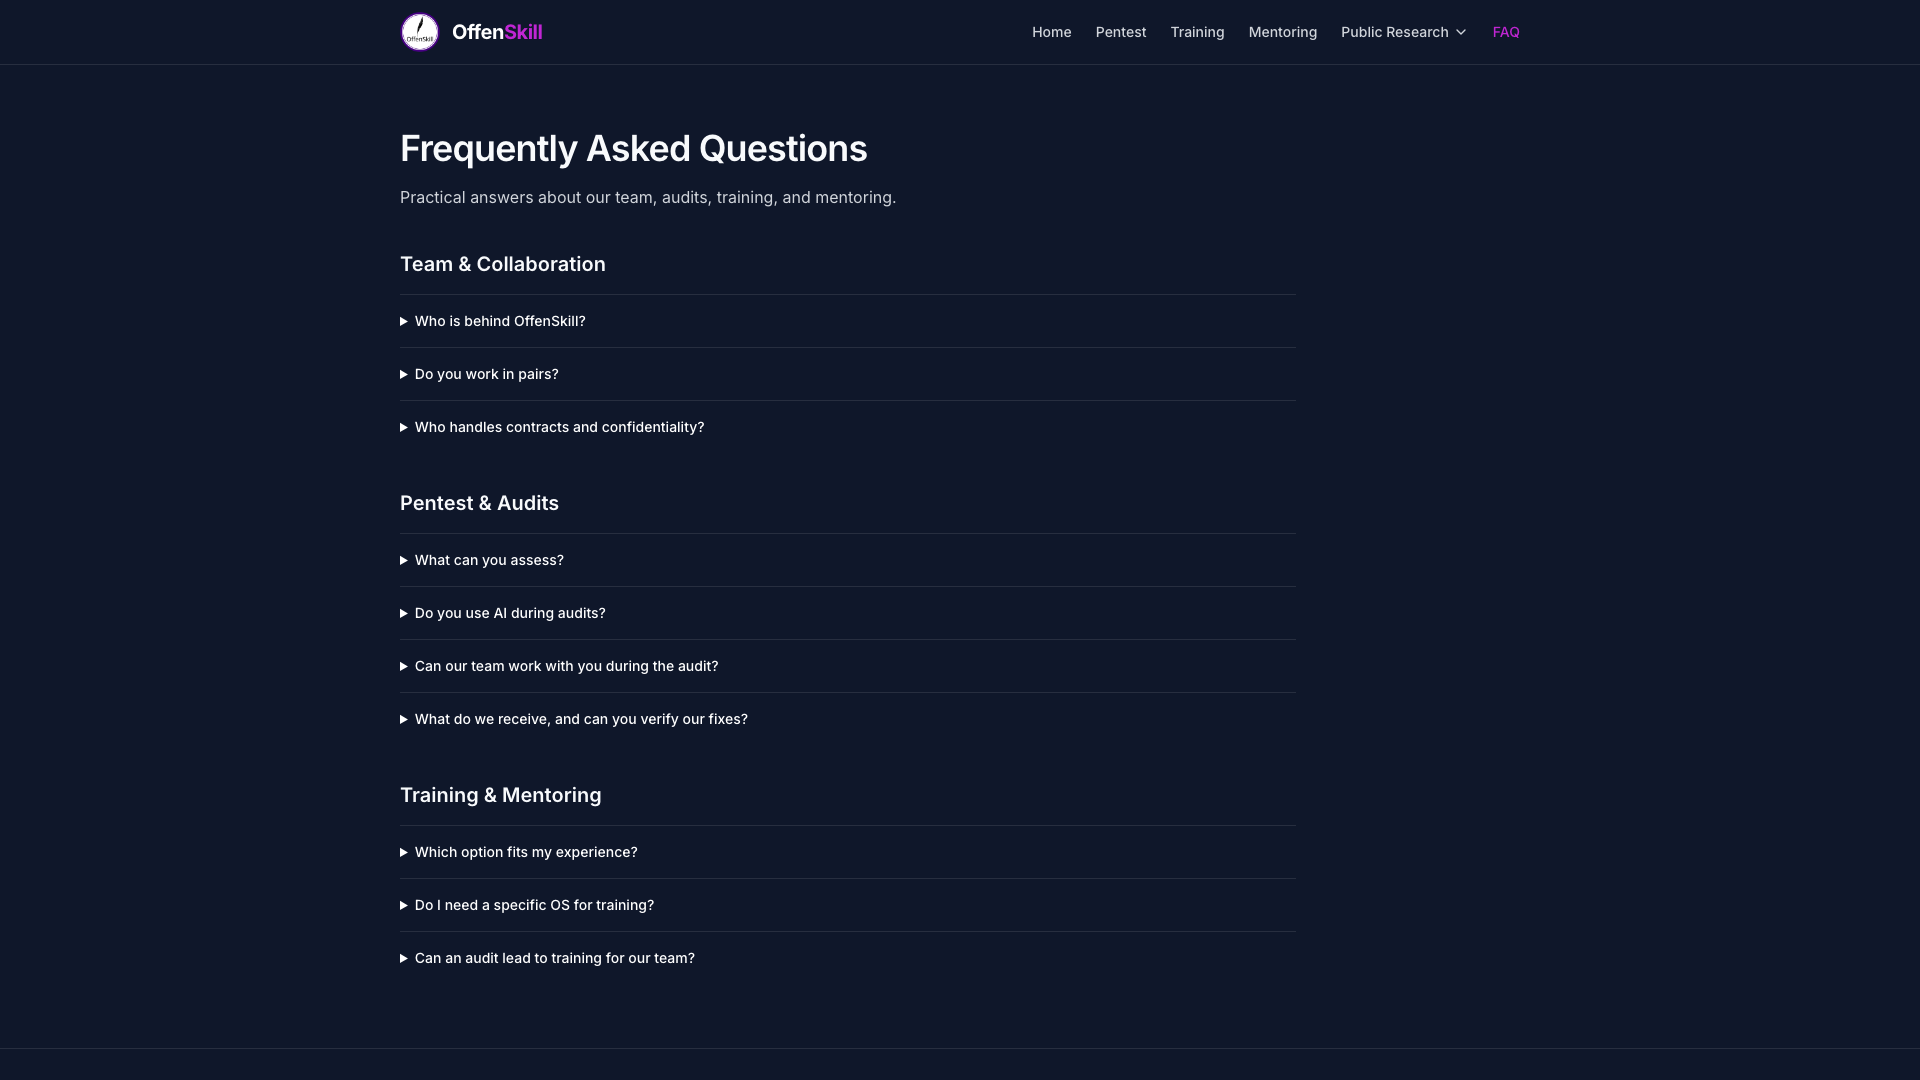
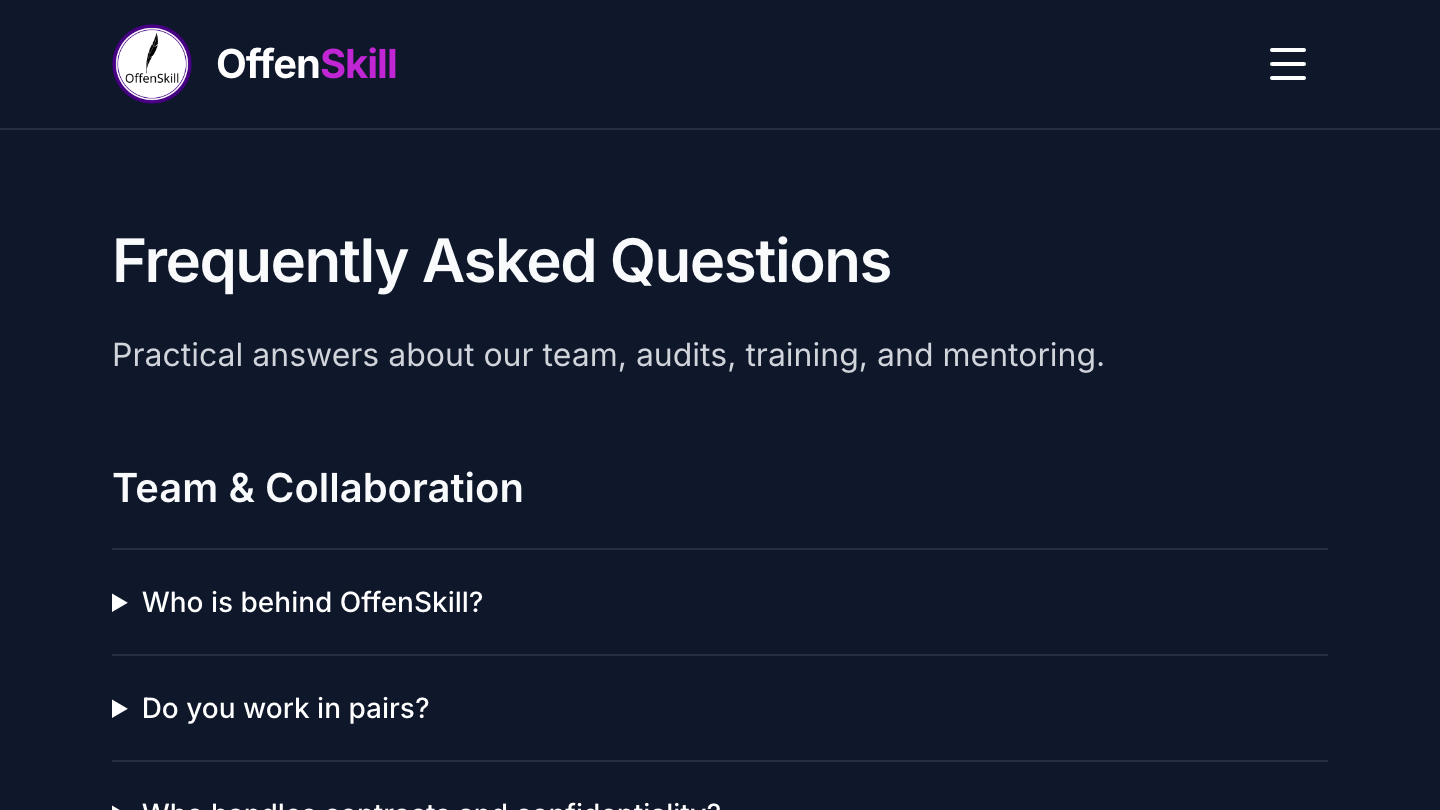
Improve thumbnail readability with a 720px viewport
Capture every page at 720x405 with a 2x pixel scale, producing sharper 1440x810 previews with larger, readable text. Regenerate all five thumbnails and document the capture size.

Validation: thumbnail generation, visual comparison at social preview size, lint, production build, image dimensions and social image references.

diff --git a/scripts/generate-thumbnails.js b/scripts/generate-thumbnails.js
@@ -34,8 +34,8 @@ async function generateThumbnails() {
     console.log('📸 Starting browser...');
     const browser = await chromium.launch();
     const context = await browser.newContext({
-        viewport: { width: 1920, height: 1080 },
-        deviceScaleFactor: 1,
+        viewport: { width: 720, height: 405 },
+        deviceScaleFactor: 2,
     });
 
     for (const route of routes) {

diff --git a/README.md b/README.md
@@ -31,7 +31,7 @@ npx playwright install chromium
 npm run thumbnails
 ```
 
-Thumbnails are saved in `public/assets/thumbnails/`. Make sure to commit them before pushing to GitHub!
+Thumbnails use a 720×405 viewport at 2× resolution for readable text in link previews. They are saved in `public/assets/thumbnails/`. Make sure to commit them before pushing to GitHub!
 
 ## 📁 Project Structure
 
